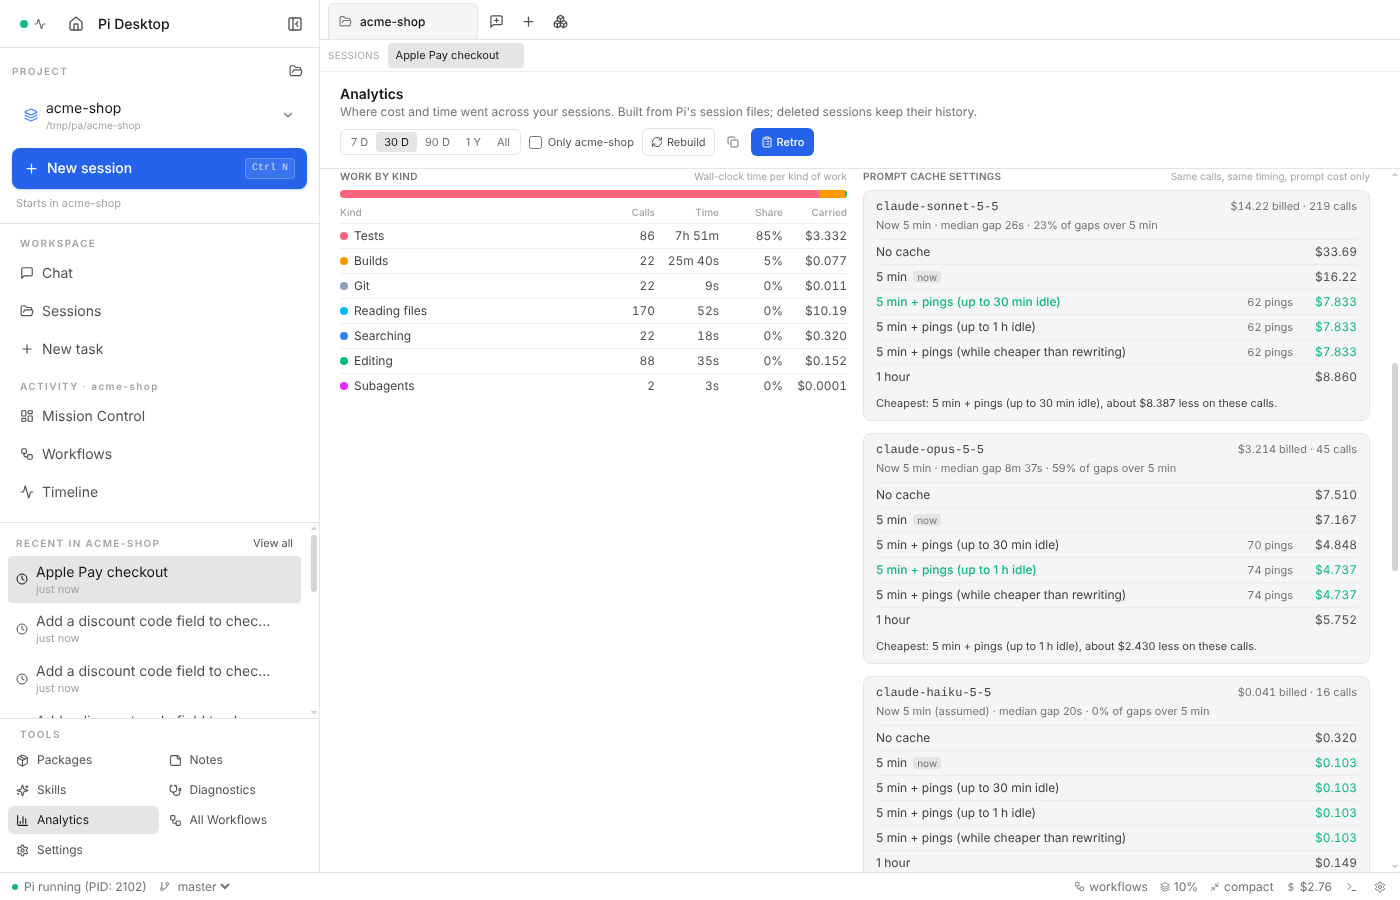
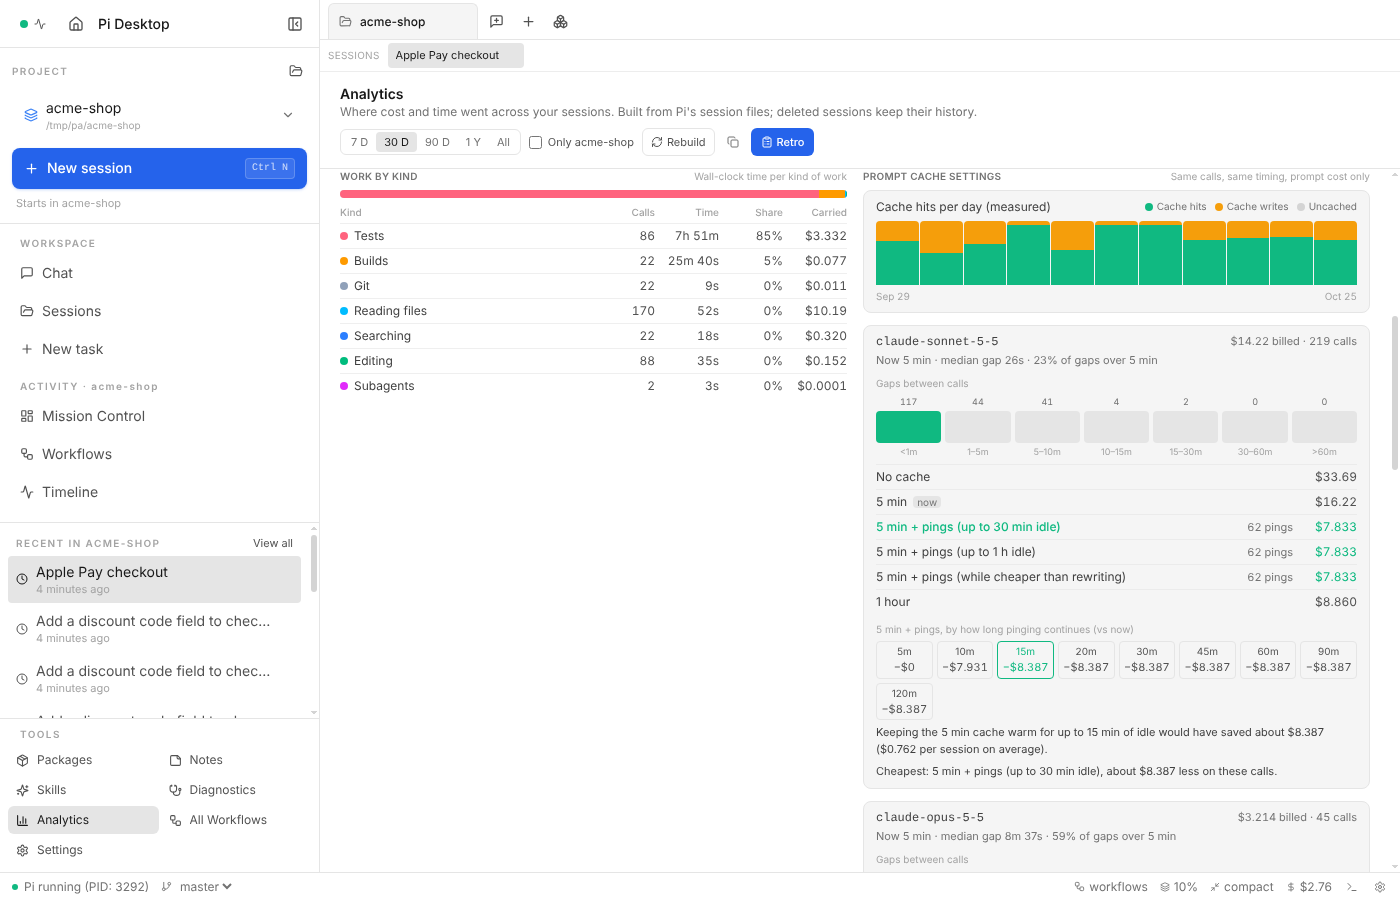
feat(analytics): cache hit and gap charts, keep-warm sweep
Claude-Session: https://claude.ai/code/session_01F9QShq12VFPX2At4wQTzB4

diff --git a/src/renderer/src/components/analytics-report-view.tsx b/src/renderer/src/components/analytics-report-view.tsx
@@ -4,7 +4,7 @@ import { clsx } from 'clsx'
 import { ChevronDown } from 'lucide-react'
 import type { AnalyticsReport, AnalyticsSignal, AnalyticsSessionKind } from '../../../shared/analytics-report'
 import type { WorkCategory } from '../../../shared/session-analytics'
-import type { CachePolicyId, ModelCacheReport } from '../../../shared/cache-policy'
+import { GAP_BUCKET_MINUTES, type CacheDay, type CachePolicyId, type ModelCacheReport } from '../../../shared/cache-policy'
 import type { Translate } from '../../../shared/i18n'
 import { formatCompact } from '../utils/format-compact'
 
@@ -309,6 +309,7 @@ function CachePolicies({ report }: { report: AnalyticsReport }): React.JSX.Eleme
   return (
     <Section title={t('analytics.cache.title')} note={t('analytics.cache.note')}>
       <div className="space-y-3">
+        {report.cache.days.length > 1 && <CacheDays days={report.cache.days} />}
         {models.slice(0, MAX_ROWS).map((model) => <ModelCache key={model.model} model={model} />)}
       </div>
     </Section>
@@ -334,6 +335,7 @@ function ModelCache({ model }: { model: ModelCacheReport }): React.JSX.Element {
           share: Math.round(model.longGapShare * 100),
         })}
       </div>
+      <GapHistogram buckets={model.gapBuckets} />
       {model.policies.length === 0 ? (
         <p className="mt-1.5 text-[11px] text-dim">{t('analytics.cache.noOptions')}</p>
       ) : (
@@ -352,12 +354,112 @@ function ModelCache({ model }: { model: ModelCacheReport }): React.JSX.Element {
               ))}
             </tbody>
           </table>
+          {model.warmSweep.length > 0 && <WarmSweep model={model} />}
           <p className="mt-1.5 text-[11px] text-secondary">
             {model.recommended
               ? t('analytics.cache.recommend', { policy: policyLabel(model.recommended, t), saving: formatUsd(model.saving) })
               : t('analytics.cache.keep')}
           </p>
         </>
+      )}
+    </div>
+  )
+}
+
+/** Measured prompt tokens per day: read from the cache, written to it, sent uncached. */
+function CacheDays({ days }: { days: CacheDay[] }): React.JSX.Element {
+  const { t, i18n } = useTranslation()
+  const format = (key: string): string => new Date(`${key}T00:00:00`).toLocaleDateString(i18n.language, { month: 'short', day: 'numeric' })
+  return (
+    <div className="rounded-lg border border-border bg-surface px-3 py-2">
+      <div className="mb-1.5 flex items-baseline justify-between gap-2">
+        <span className="text-xs text-secondary">{t('analytics.cache.days.title')}</span>
+        <span className="flex items-center gap-2 text-[10px] text-dim">
+          <span className="flex items-center gap-1"><span className="h-2 w-2 rounded-sm bg-success" aria-hidden="true" />{t('analytics.cache.days.read')}</span>
+          <span className="flex items-center gap-1"><span className="h-2 w-2 rounded-sm bg-warning" aria-hidden="true" />{t('analytics.cache.days.write')}</span>
+          <span className="flex items-center gap-1"><span className="h-2 w-2 rounded-sm bg-border-strong" aria-hidden="true" />{t('analytics.cache.days.input')}</span>
+        </span>
+      </div>
+      <div className="flex h-16 items-end gap-px" role="img" aria-label={t('analytics.cache.days.title')}>
+        {days.map((day) => {
+          const total = day.readTokens + day.writeTokens + day.inputTokens
+          const share = (part: number): string => `${total > 0 ? (part / total) * 100 : 0}%`
+          return (
+            <div
+              key={day.day}
+              className="flex h-full min-w-0 flex-1 flex-col-reverse overflow-hidden rounded-t-sm"
+              title={t('analytics.cache.days.bar', { day: format(day.day), hit: Math.round(total > 0 ? (day.readTokens / total) * 100 : 0), cold: day.coldCalls, calls: day.calls })}
+            >
+              <div className="bg-success" style={{ height: share(day.readTokens) }} />
+              <div className="bg-warning" style={{ height: share(day.writeTokens) }} />
+              <div className="bg-border-strong" style={{ height: share(day.inputTokens) }} />
+            </div>
+          )
+        })}
+      </div>
+      <div className="mt-1 flex justify-between text-[10px] text-faint tabular-nums">
+        <span>{format(days[0].day)}</span>
+        <span>{format(days[days.length - 1].day)}</span>
+      </div>
+    </div>
+  )
+}
+
+/** How long the model sat idle between calls: the gaps that decide which lifetime pays. */
+function GapHistogram({ buckets }: { buckets: number[] }): React.JSX.Element | null {
+  const { t } = useTranslation()
+  const max = Math.max(...buckets, 0)
+  if (max === 0) return null
+  const label = (index: number): string => index === 0
+    ? t('analytics.cache.gaps.under', { minutes: GAP_BUCKET_MINUTES[0] })
+    : index < GAP_BUCKET_MINUTES.length
+      ? t('analytics.cache.gaps.range', { from: GAP_BUCKET_MINUTES[index - 1], to: GAP_BUCKET_MINUTES[index] })
+      : t('analytics.cache.gaps.over', { minutes: GAP_BUCKET_MINUTES[GAP_BUCKET_MINUTES.length - 1] })
+  return (
+    <div className="mt-2">
+      <div className="mb-1 text-[10px] text-faint">{t('analytics.cache.gaps.title')}</div>
+      <div className="flex items-end gap-1">
+        {buckets.map((count, index) => (
+          <div key={index} className="flex min-w-0 flex-1 flex-col items-center gap-0.5" title={t('analytics.cache.gaps.bar', { range: label(index), count })}>
+            <span className="text-[9px] text-dim tabular-nums">{count}</span>
+            <div className="h-8 w-full overflow-hidden rounded-sm bg-card">
+              {/* Gaps within five minutes keep a 5 minute cache warm; longer ones do not. */}
+              <div className={clsx('w-full', index < 2 ? 'bg-success' : 'bg-warning')} style={{ height: `${(count / max) * 100}%`, marginTop: `${100 - (count / max) * 100}%` }} />
+            </div>
+            <span className="truncate text-[9px] text-faint">{label(index)}</span>
+          </div>
+        ))}
+      </div>
+    </div>
+  )
+}
+
+/** 5 minutes plus pings, by how long the pinging keeps going, against the current setting. */
+function WarmSweep({ model }: { model: ModelCacheReport }): React.JSX.Element {
+  const { t } = useTranslation()
+  return (
+    <div className="mt-2">
+      <div className="mb-1 text-[10px] text-faint">{t('analytics.cache.sweep.title')}</div>
+      <div className="grid grid-cols-[repeat(auto-fit,minmax(52px,1fr))] gap-1">
+        {model.warmSweep.map((point) => (
+          <div
+            key={point.idleMinutes}
+            className={clsx('rounded border px-1 py-0.5 text-center', point === model.bestWarm ? 'border-success text-success' : 'border-border text-muted')}
+            title={t('analytics.cache.sweep.point', { minutes: point.idleMinutes, cost: formatUsd(point.cost), pings: point.pings })}
+          >
+            <div className="text-[10px]">{t('analytics.cache.sweep.minutes', { minutes: point.idleMinutes })}</div>
+            <div className="text-[11px] tabular-nums">{point.saving >= 0 ? `−${formatUsd(point.saving)}` : `+${formatUsd(-point.saving)}`}</div>
+          </div>
+        ))}
+      </div>
+      {model.bestWarm && (
+        <p className="mt-1 text-[11px] text-secondary">
+          {t('analytics.cache.sweep.best', {
+            minutes: model.bestWarm.idleMinutes,
+            saving: formatUsd(model.bestWarm.saving),
+            perSession: formatUsd(model.bestWarm.saving / Math.max(1, model.sessions)),
+          })}
+        </p>
       )}
     </div>
   )

diff --git a/src/shared/cache-policy.ts b/src/shared/cache-policy.ts
@@ -8,7 +8,7 @@
  * and that each call reuses the previous call's prompt as its cached prefix.
  * The measured cost next to it is what the provider billed.
  */
-import type { CacheCall, SessionAnalytics } from './session-analytics'
+import { localDayKey, type CacheCall, type SessionAnalytics } from './session-analytics'
 
 export type CacheProvider = 'anthropic' | 'openai' | 'other'
 
@@ -37,6 +37,10 @@ const MIN_CALLS_FOR_ADVICE = 10
 const MIN_SAVING_SHARE = 0.05
 
 export const KEEP_WARM_EVERY_MS = 4 * MINUTE
+/** Idle limits the keep-warm sweep tries: how long to keep pinging before letting the cache go. */
+export const WARM_SWEEP_MINUTES = [5, 10, 15, 20, 30, 45, 60, 90, 120]
+/** Upper bounds of the gap histogram's buckets; the last bucket is everything longer. */
+export const GAP_BUCKET_MINUTES = [1, 5, 10, 15, 30, 60]
 
 /**
  * Settings per provider, with list prices as multiples of the input price
@@ -104,10 +108,38 @@ export interface ModelCacheReport {
   medianGapMs: number
   /** Share of gaps longer than five minutes. */
   longGapShare: number
+  /** Gaps between calls per `GAP_BUCKET_MINUTES` bucket, plus one for longer gaps. */
+  gapBuckets: number[]
+  /**
+   * 5 minutes with keep-warm pings for up to each `WARM_SWEEP_MINUTES` of
+   * idle (Anthropic only), and the limit that would have cost least.
+   */
+  warmSweep: WarmSweepPoint[]
+  bestWarm: WarmSweepPoint | null
+}
+
+export interface WarmSweepPoint {
+  idleMinutes: number
+  cost: number
+  pings: number
+  /** Against the current setting; negative when it costs more. */
+  saving: number
+}
+
+/** Measured cache use of one day: prompt tokens read from the cache, written to it, and sent uncached. */
+export interface CacheDay {
+  day: string
+  calls: number
+  /** Calls that read nothing from the cache. */
+  coldCalls: number
+  readTokens: number
+  writeTokens: number
+  inputTokens: number
 }
 
 export interface CacheReport {
   models: ModelCacheReport[]
+  days: CacheDay[]
   /** Sum of the recommended savings. */
   saving: number
 }
@@ -220,6 +252,33 @@ export function replay(calls: CacheCall[], spec: PolicySpec, prices: Pick<Prices
   return result
 }
 
+function gapBuckets(gaps: number[]): number[] {
+  const buckets = new Array<number>(GAP_BUCKET_MINUTES.length + 1).fill(0)
+  for (const gap of gaps) {
+    const index = GAP_BUCKET_MINUTES.findIndex((limit) => gap <= limit * MINUTE)
+    buckets[index < 0 ? GAP_BUCKET_MINUTES.length : index]++
+  }
+  return buckets
+}
+
+/** Measured cache use per local day, every model together. */
+function cacheDays(sessions: SessionAnalytics[]): CacheDay[] {
+  const days = new Map<string, CacheDay>()
+  for (const facts of sessions) {
+    for (const call of facts.cacheCalls) {
+      const day = localDayKey(call[0])
+      const entry = days.get(day) ?? { day, calls: 0, coldCalls: 0, readTokens: 0, writeTokens: 0, inputTokens: 0 }
+      entry.calls++
+      if (call[3] === 0) entry.coldCalls++
+      entry.readTokens += call[3]
+      entry.writeTokens += call[4]
+      entry.inputTokens += call[2]
+      days.set(day, entry)
+    }
+  }
+  return [...days.values()].sort((a, b) => a.day.localeCompare(b.day))
+}
+
 function median(values: number[]): number {
   if (values.length === 0) return 0
   const sorted = [...values].sort((a, b) => a - b)
@@ -271,6 +330,9 @@ export function buildCacheReport(sessions: SessionAnalytics[]): CacheReport {
       savingShare: 0,
       medianGapMs: median(gaps),
       longGapShare: gaps.length > 0 ? gaps.filter((gap) => gap > 5 * MINUTE).length / gaps.length : 0,
+      gapBuckets: gapBuckets(gaps),
+      warmSweep: [],
+      bestWarm: null,
     }
     if (provider !== 'other' && prices) {
       report.policies = POLICIES[provider].map((spec) => {
@@ -294,8 +356,24 @@ export function buildCacheReport(sessions: SessionAnalytics[]): CacheReport {
         }
       }
     }
+    if (provider === 'anthropic' && prices) {
+      const current = report.policies.find((entry) => entry.policy === report.currentPolicy)?.cost ?? 0
+      report.warmSweep = WARM_SWEEP_MINUTES.map((idleMinutes) => {
+        const spec: PolicySpec = { id: '5m-warm-60m', ttlMs: 5 * MINUTE, write: 1.25, warm: { everyMs: KEEP_WARM_EVERY_MS, forMs: idleMinutes * MINUTE } }
+        let cost = 0
+        let pings = 0
+        for (const run of runs) {
+          const part = replay(run, spec, prices)
+          cost += part.cost
+          pings += part.pings
+        }
+        return { idleMinutes, cost, pings, saving: current - cost }
+      })
+      const best = [...report.warmSweep].sort((a, b) => a.cost - b.cost || a.idleMinutes - b.idleMinutes)[0]
+      report.bestWarm = best && best.saving > 0 ? best : null
+    }
     models.push(report)
   }
   models.sort((a, b) => b.measuredCost - a.measuredCost)
-  return { models, saving: models.reduce((sum, model) => sum + model.saving, 0) }
+  return { models, days: cacheDays(sessions), saving: models.reduce((sum, model) => sum + model.saving, 0) }
 }

diff --git a/src/shared/cache-policy.test.ts b/src/shared/cache-policy.test.ts
@@ -79,6 +79,22 @@ test('recommends a longer lifetime for calls with 10 to 40 minute gaps', () => {
   assert.equal(report.saving, model.saving)
 })
 
+test('sweeps keep-warm limits and buckets the gaps', () => {
+  const calls: CacheCall[] = [call(0, 40_000, true)]
+  // Gaps of 14 minutes need 3 pings: pinging for 15 minutes of idle covers them, 10 (2 pings) does not.
+  for (let index = 1; index <= 20; index++) calls.push(call(index * 14 * MINUTE, 40_000 + index * 500))
+  const report = buildCacheReport([session(calls)])
+  const model = report.models[0]
+  assert.deepEqual(model.gapBuckets, [0, 0, 0, 20, 0, 0, 0])
+  const at = (minutes: number) => model.warmSweep.find((point) => point.idleMinutes === minutes)
+  assert.ok((at(15)?.saving ?? 0) > 0)
+  assert.ok((at(10)?.saving ?? 0) < (at(15)?.saving ?? 0))
+  assert.equal(model.bestWarm?.idleMinutes, 15)
+  assert.equal(report.days.length, 1)
+  assert.equal(report.days[0].calls, 21)
+  assert.equal(report.days[0].coldCalls, 1)
+})
+
 test('back-to-back calls keep the 5 minute default', () => {
   const calls: CacheCall[] = [call(0, 20_000, true)]
   for (let index = 1; index <= 20; index++) calls.push(call(index * 30_000, 20_000 + index * 800))

diff --git a/src/shared/retro-digest.ts b/src/shared/retro-digest.ts
@@ -108,6 +108,7 @@ export function retroDigest(report: AnalyticsReport, title: string | null = null
     lines.push('Prompt cost of the same calls at the same times under each setting; measured is what was billed. 5m-warm pings every 4 minutes for up to 1 hour of idle.', '')
     for (const model of report.cache.models.filter((entry) => entry.policies.length > 0).slice(0, MAX_DIGEST_ROWS)) {
       const options = model.policies.map((policy) => `${policy.policy} ${money(policy.cost)}`).join(', ')
+      if (model.bestWarm) lines.push(`  - Keeping the 5 minute cache warm for up to ${model.bestWarm.idleMinutes} min of idle would have saved ${money(model.bestWarm.saving)} (${money(model.bestWarm.saving / Math.max(1, model.sessions))} per session, ${model.bestWarm.pings} pings).`)
       lines.push(`- ${model.model} (${model.calls} calls, now ${model.currentPolicy ?? 'unknown'}${model.currentPolicyMeasured ? '' : ' (assumed)'}, measured ${money(model.measuredCost)}, median gap ${duration(model.medianGapMs)}): ${options}${model.recommended ? `; cheapest ${model.recommended}, saves ${money(model.saving)}` : ''}`)
     }
     lines.push('')

diff --git a/src/shared/analytics-report.ts b/src/shared/analytics-report.ts
@@ -216,7 +216,7 @@ export function buildReport(scope: AnalyticsReport['scope'], sessions: IndexedSe
     subagentCost: 0,
     days: [],
     projects: [],
-    cache: { models: [], saving: 0 },
+    cache: { models: [], days: [], saving: 0 },
     signals: [],
   }
   const days = new Map<string, DayPoint>()
